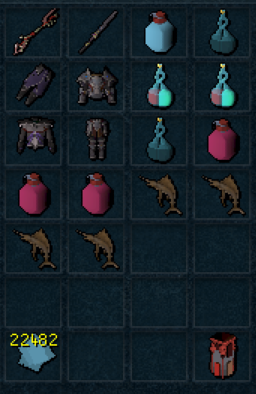
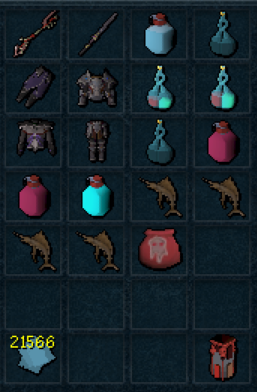
prayers/familiars support, general fixes, switching bug fix

diff --git a/docs/Scripts/Combat/Boss Scripts/ErvinasDagannothKings/index.md b/docs/Scripts/Combat/Boss Scripts/ErvinasDagannothKings/index.md
@@ -12,7 +12,7 @@ import Changelog from '@site/src/components/Changelog';
 import BrowserWindow from '@site/src/components/BrowserWindow';
 import changes from './changes.json'
 
-<TopBanner title="Ervinas Dagannoths Kings" version="v1.0.0" author="Ervinas" skill="Attack">
+<TopBanner title="Ervinas Dagannoths Kings" version="v1.1.0" author="Ervinas" skill="Attack">
 </TopBanner>
 
 :::hidden
@@ -41,6 +41,7 @@ import changes from './changes.json'
 > - Be able to have/use Overloads.
 > - Render distance : medium.
 > - Atleast T80 Weapons/Armour or T70 with Blood amulet of fury should be enough to self sustain life.
+> - Higher summoning for better BoB. Or better DPS.
 > - Magic notepaper - the more, the better.
 
 </ContentBlock>
@@ -71,6 +72,9 @@ import changes from './changes.json'
 > - Uses Revolution.
 > - Uses Soul Split
 > - Uses Regular/Curse Protection Prayers if Soul Split is turned off in settings.
+> - Uses Familiars, such as BoB or DPS.
+> - Eats from BoB.
+> - Resummons familiars if time left < 10 mins.
 </ContentBlock>
 
 :::hidden
@@ -111,7 +115,16 @@ import changes from './changes.json'
 > - Equipment Pocket Slot - Mainly used for books: Wen/Jas/Grimoire/Illumination etc, as long it has "Activate/Deactivate" option.
 > - Food - **HIGHLY RECOMMENDED**, it will pop a new text insertion in which you have to write **PRECISE** name of a food, which has option **EAT**.
 > - Weapon and Armour is fully written in the script. Read closely.
-> - Familiars (Fighting and Inventory) **NOT AVAILABLE YET**
+> - Familiars (Fighting and Inventory) Supported :
+>> - Beast of Burden :
+>>> - Spirit Terrorbird
+>>> - War Tortoise
+>>> - Pack Yak
+>>> - Pack Mammoth
+>> - DPS :
+>>> - Ripper Demon
+>>> - Kalgerion Demon
+>>> - Abyssal Demon
 
 </details>
 
@@ -145,6 +158,9 @@ import changes from './changes.json'
 
 <ContentBlock title="Preset And Gear">
 > - Script is using preset - **"Load Last Preset from"**
+> - If BoB is turned on, please setup it before starting!
+>> - Summon BoB, load with same food as you are planning to use and save BoB inventory.
+>> - Add a pouch to your preset and you are ready to go.
 <details>
 <summary>My Personal Preset</summary>
 
@@ -176,7 +192,7 @@ import changes from './changes.json'
 
 :::
 
-<ContentBlock title="Preset And Gear">
+<ContentBlock title="Loot">
 > - Script provides ability to loot. Take a look at Script Settings "Loot" Tab.
 <details>
 <summary>Loot Tab</summary>
@@ -205,9 +221,7 @@ import changes from './changes.json'
 :::
 
 <ContentBlock title="Additional Information">
-> - Script is for a bit stronger account than usual due to soul split.
-> - Upcoming releases will add functionality for account without soul split.
-> - There is no familiar support due to this script being personal/private.
+> - Script is suitable now for account which doesn't have **Soul Split**, will use regular protection prayers instead for each individual dagannoth.
 > - If you encouter bugs, please contact me @Ervinas in discord, providing a video would help a lot.
 > - If there are suggestions or desires what to add to this script - @Ervinas.
 > - Happy Botting. AGAIN.
